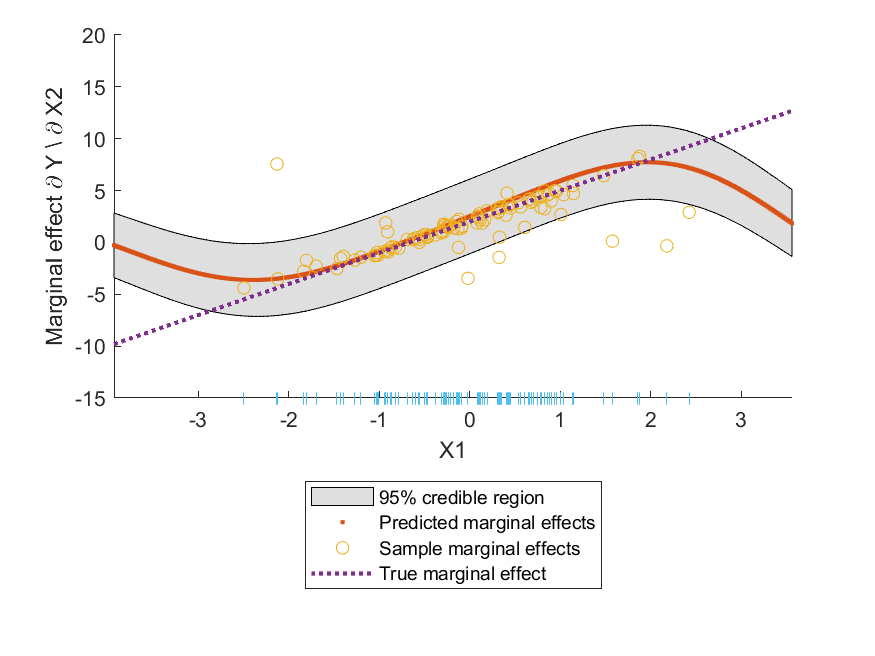
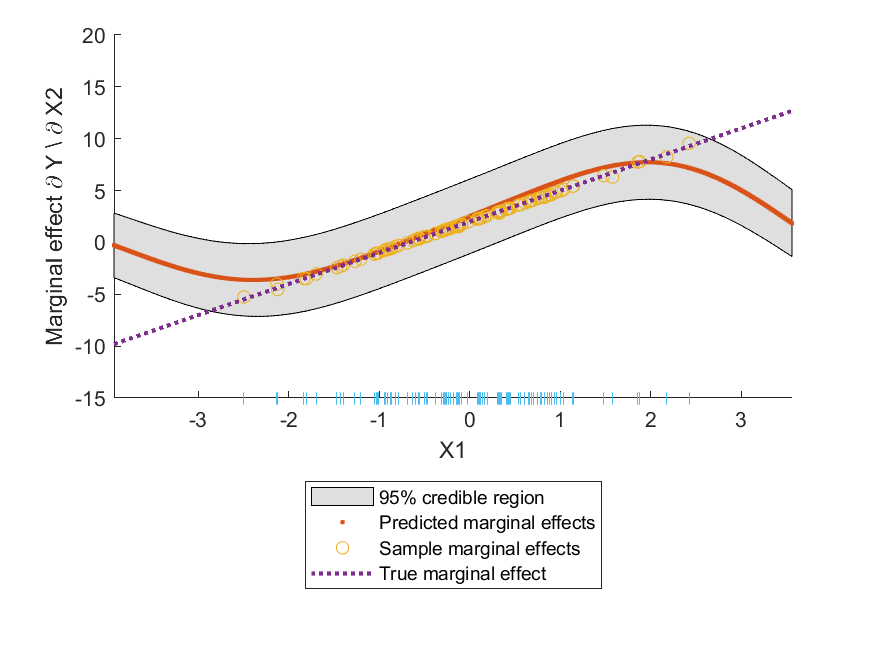
Fix pme calls in interaction simulations
pme calls using hyp_iso / hyp_ard in interaction simulations were instead using the prior, unlearned hyp. Push supporting images as well

diff --git a/simulations/jointly_negcorr_bivariate_linear_interaction.m b/simulations/jointly_negcorr_bivariate_linear_interaction.m
@@ -49,7 +49,7 @@ d=1;
 numsteps=500;
 [ jointly_negcorr_bivariate_linear_interaction_x1_iso, gridX ] = gridme(d, numsteps, hyp_iso, meanfunc, covfunc, X, y, [1 2]);
 hold on;
-[dydx, ~] = pme(hyp, meanfunc, covfunc, X, y);            % sample
+[dydx, ~] = pme(hyp_iso, meanfunc, covfunc, X, y);            % sample
 plot(X(:,2), dydx(1,:), 'o', 'DisplayName', "Sample marginal effects")
 plot(gridX(:,2), b1 + b3*gridX(:,2), ':', 'LineWidth', 2, 'DisplayName', "True marginal effect");
 xlabel('X2');
@@ -69,7 +69,7 @@ d=2;
 numsteps=500;
 [ jointly_negcorr_bivariate_linear_interaction_x2_iso, gridX ] = gridme(d, numsteps, hyp_iso, meanfunc, covfunc, X, y, [1 2]);
 hold on;
-[dydx, ~] = pme(hyp, meanfunc, covfunc, X, y);            % sample
+[dydx, ~] = pme(hyp_iso, meanfunc, covfunc, X, y);            % sample
 plot(X(:,1), dydx(2,:), 'o', 'DisplayName', "Sample marginal effects")
 plot(gridX(:,1), b2 + b3*gridX(:,1), ':', 'LineWidth', 2, 'DisplayName', "True marginal effect");
 xlabel('X1');
@@ -109,7 +109,7 @@ d=1;
 numsteps=500;
 [ jointly_negcorr_bivariate_linear_interaction_x1_ard, gridX ] = gridme(d, numsteps, hyp_ard, meanfunc, covfunc, X, y, [1 2]);
 hold on;
-[dydx, ~] = pme(hyp, meanfunc, covfunc, X, y);            % sample
+[dydx, ~] = pme(hyp_ard, meanfunc, covfunc, X, y);            % sample
 plot(X(:,2), dydx(1,:), 'o', 'DisplayName', "Sample marginal effects")
 plot(gridX(:,2), b1 + b3*gridX(:,2), ':', 'LineWidth', 2, 'DisplayName', "True marginal effect");
 xlabel('X2');
@@ -129,7 +129,7 @@ d=2;
 numsteps=500;
 [ jointly_negcorr_bivariate_linear_interaction_ard_x2, gridX ] = gridme(d, numsteps, hyp_ard, meanfunc, covfunc, X, y, [1 2]);
 hold on;
-[dydx, ~] = pme(hyp, meanfunc, covfunc, X, y);            % sample
+[dydx, ~] = pme(hyp_ard, meanfunc, covfunc, X, y);            % sample
 plot(X(:,1), dydx(2,:), 'o', 'DisplayName', "Sample marginal effects")
 plot(gridX(:,1), b2 + b3*gridX(:,1), ':', 'LineWidth', 2, 'DisplayName', "True marginal effect");
 xlabel('X1');

diff --git a/simulations/jointly_poscorr_bivariate_linear_interaction.m b/simulations/jointly_poscorr_bivariate_linear_interaction.m
@@ -49,7 +49,7 @@ d=1;
 numsteps=500;
 [ jointly_poscorr_bivariate_linear_interaction_x1_iso, gridX ] = gridme(d, numsteps, hyp_iso, meanfunc, covfunc, X, y, [1 2]);
 hold on;
-[dydx, ~] = pme(hyp, meanfunc, covfunc, X, y);            % sample
+[dydx, ~] = pme(hyp_iso, meanfunc, covfunc, X, y);            % sample
 plot(X(:,2), dydx(1,:), 'o', 'DisplayName', "Sample marginal effects")
 plot(gridX(:,2), b1 + b3*gridX(:,2), ':', 'LineWidth', 2, 'DisplayName', "True marginal effect");
 xlabel('X2');
@@ -69,7 +69,7 @@ d=2;
 numsteps=500;
 [ jointly_poscorr_bivariate_linear_interaction_x2_iso, gridX ] = gridme(d, numsteps, hyp_iso, meanfunc, covfunc, X, y, [1 2]);
 hold on;
-[dydx, ~] = pme(hyp, meanfunc, covfunc, X, y);            % sample
+[dydx, ~] = pme(hyp_iso, meanfunc, covfunc, X, y);            % sample
 plot(X(:,1), dydx(2,:), 'o', 'DisplayName', "Sample marginal effects")
 plot(gridX(:,1), b2 + b3*gridX(:,1), ':', 'LineWidth', 2, 'DisplayName', "True marginal effect");
 xlabel('X1');
@@ -109,7 +109,7 @@ d=1;
 numsteps=500;
 [ jointly_poscorr_bivariate_linear_interaction_x1_ard, gridX ] = gridme(d, numsteps, hyp_ard, meanfunc, covfunc, X, y, [1 2]);
 hold on;
-[dydx, ~] = pme(hyp, meanfunc, covfunc, X, y);            % sample
+[dydx, ~] = pme(hyp_ard, meanfunc, covfunc, X, y);            % sample
 plot(X(:,2), dydx(1,:), 'o', 'DisplayName', "Sample marginal effects")
 plot(gridX(:,2), b1 + b3*gridX(:,2), ':', 'LineWidth', 2, 'DisplayName', "True marginal effect");
 xlabel('X2');
@@ -129,7 +129,7 @@ d=2;
 numsteps=500;
 [ jointly_poscorr_bivariate_linear_interaction_ard_x2, gridX ] = gridme(d, numsteps, hyp_ard, meanfunc, covfunc, X, y, [1 2]);
 hold on;
-[dydx, ~] = pme(hyp, meanfunc, covfunc, X, y);            % sample
+[dydx, ~] = pme(hyp_ard, meanfunc, covfunc, X, y);            % sample
 plot(X(:,1), dydx(2,:), 'o', 'DisplayName', "Sample marginal effects")
 plot(gridX(:,1), b2 + b3*gridX(:,1), ':', 'LineWidth', 2, 'DisplayName', "True marginal effect");
 xlabel('X1');

diff --git a/simulations/trivariate.m b/simulations/trivariate.m
@@ -109,7 +109,7 @@ d=1;
 numsteps=500;
 [ bivariate_linear_interaction_x1_iso, gridX ] = gridme(d, numsteps, hyp_iso, meanfunc, covfunc, X, y, [1 2]);
 hold on;
-[dydx, ~] = pme(hyp, meanfunc, covfunc, X, y);            % sample
+[dydx, ~] = pme(hyp_iso, meanfunc, covfunc, X, y);            % sample
 plot(X(:,2), dydx(1,:), 'o', 'DisplayName', "Sample marginal effects")
 plot(gridX(:,2), b1 + b3*gridX(:,2), ':', 'LineWidth', 2, 'DisplayName', "True marginal effect");
 xlabel('X2');
@@ -129,7 +129,7 @@ d=2;
 numsteps=500;
 [ bivariate_linear_interaction_x2_iso, gridX ] = gridme(d, numsteps, hyp_iso, meanfunc, covfunc, X, y, [1 2]);
 hold on;
-[dydx, ~] = pme(hyp, meanfunc, covfunc, X, y);            % sample
+[dydx, ~] = pme(hyp_iso, meanfunc, covfunc, X, y);            % sample
 plot(X(:,1), dydx(2,:), 'o', 'DisplayName', "Sample marginal effects")
 plot(gridX(:,1), b2 + b3*gridX(:,1), ':', 'LineWidth', 2, 'DisplayName', "True marginal effect");
 xlabel('X1');
@@ -169,7 +169,7 @@ d=1;
 numsteps=500;
 [ bivariate_linear_interaction_x1_ard, gridX ] = gridme(d, numsteps, hyp_ard, meanfunc, covfunc, X, y, [1 2]);
 hold on;
-[dydx, ~] = pme(hyp, meanfunc, covfunc, X, y);            % sample
+[dydx, ~] = pme(hyp_ard, meanfunc, covfunc, X, y);            % sample
 plot(X(:,2), dydx(1,:), 'o', 'DisplayName', "Sample marginal effects")
 plot(gridX(:,2), b1 + b3*gridX(:,2), ':', 'LineWidth', 2, 'DisplayName', "True marginal effect");
 xlabel('X2');
@@ -189,7 +189,7 @@ d=2;
 numsteps=500;
 [ bivariate_linear_interaction_ard_x2, gridX ] = gridme(d, numsteps, hyp_ard, meanfunc, covfunc, X, y, [1 2]);
 hold on;
-[dydx, ~] = pme(hyp, meanfunc, covfunc, X, y);            % sample
+[dydx, ~] = pme(hyp_ard, meanfunc, covfunc, X, y);            % sample
 plot(X(:,1), dydx(2,:), 'o', 'DisplayName', "Sample marginal effects")
 plot(gridX(:,1), b2 + b3*gridX(:,1), ':', 'LineWidth', 2, 'DisplayName', "True marginal effect");
 xlabel('X1');

diff --git a/simulations/bivariate_linear_interaction.m b/simulations/bivariate_linear_interaction.m
@@ -46,7 +46,7 @@ d=1;
 numsteps=500;
 [ bivariate_linear_interaction_x1_iso, gridX ] = gridme(d, numsteps, hyp_iso, meanfunc, covfunc, X, y, [1 2]);
 hold on;
-[dydx, ~] = pme(hyp, meanfunc, covfunc, X, y);            % sample
+[dydx, ~] = pme(hyp_iso, meanfunc, covfunc, X, y);            % sample
 plot(X(:,2), dydx(1,:), 'o', 'DisplayName', "Sample marginal effects")
 plot(gridX(:,2), b1 + b3*gridX(:,2), ':', 'LineWidth', 2, 'DisplayName', "True marginal effect");
 xlabel('X2');
@@ -66,7 +66,7 @@ d=2;
 numsteps=500;
 [ bivariate_linear_interaction_x2_iso, gridX ] = gridme(d, numsteps, hyp_iso, meanfunc, covfunc, X, y, [1 2]);
 hold on;
-[dydx, ~] = pme(hyp, meanfunc, covfunc, X, y);            % sample
+[dydx, ~] = pme(hyp_iso, meanfunc, covfunc, X, y);            % sample
 plot(X(:,1), dydx(2,:), 'o', 'DisplayName', "Sample marginal effects")
 plot(gridX(:,1), b2 + b3*gridX(:,1), ':', 'LineWidth', 2, 'DisplayName', "True marginal effect");
 xlabel('X1');
@@ -106,7 +106,7 @@ d=1;
 numsteps=500;
 [ bivariate_linear_interaction_x1_ard, gridX ] = gridme(d, numsteps, hyp_ard, meanfunc, covfunc, X, y, [1 2]);
 hold on;
-[dydx, ~] = pme(hyp, meanfunc, covfunc, X, y);            % sample
+[dydx, ~] = pme(hyp_ard, meanfunc, covfunc, X, y);            % sample
 plot(X(:,2), dydx(1,:), 'o', 'DisplayName', "Sample marginal effects")
 plot(gridX(:,2), b1 + b3*gridX(:,2), ':', 'LineWidth', 2, 'DisplayName', "True marginal effect");
 xlabel('X2');
@@ -126,7 +126,7 @@ d=2;
 numsteps=500;
 [ bivariate_linear_interaction_ard_x2, gridX ] = gridme(d, numsteps, hyp_ard, meanfunc, covfunc, X, y, [1 2]);
 hold on;
-[dydx, ~] = pme(hyp, meanfunc, covfunc, X, y);            % sample
+[dydx, ~] = pme(hyp_ard, meanfunc, covfunc, X, y);            % sample
 plot(X(:,1), dydx(2,:), 'o', 'DisplayName', "Sample marginal effects")
 plot(gridX(:,1), b2 + b3*gridX(:,1), ':', 'LineWidth', 2, 'DisplayName', "True marginal effect");
 xlabel('X1');
